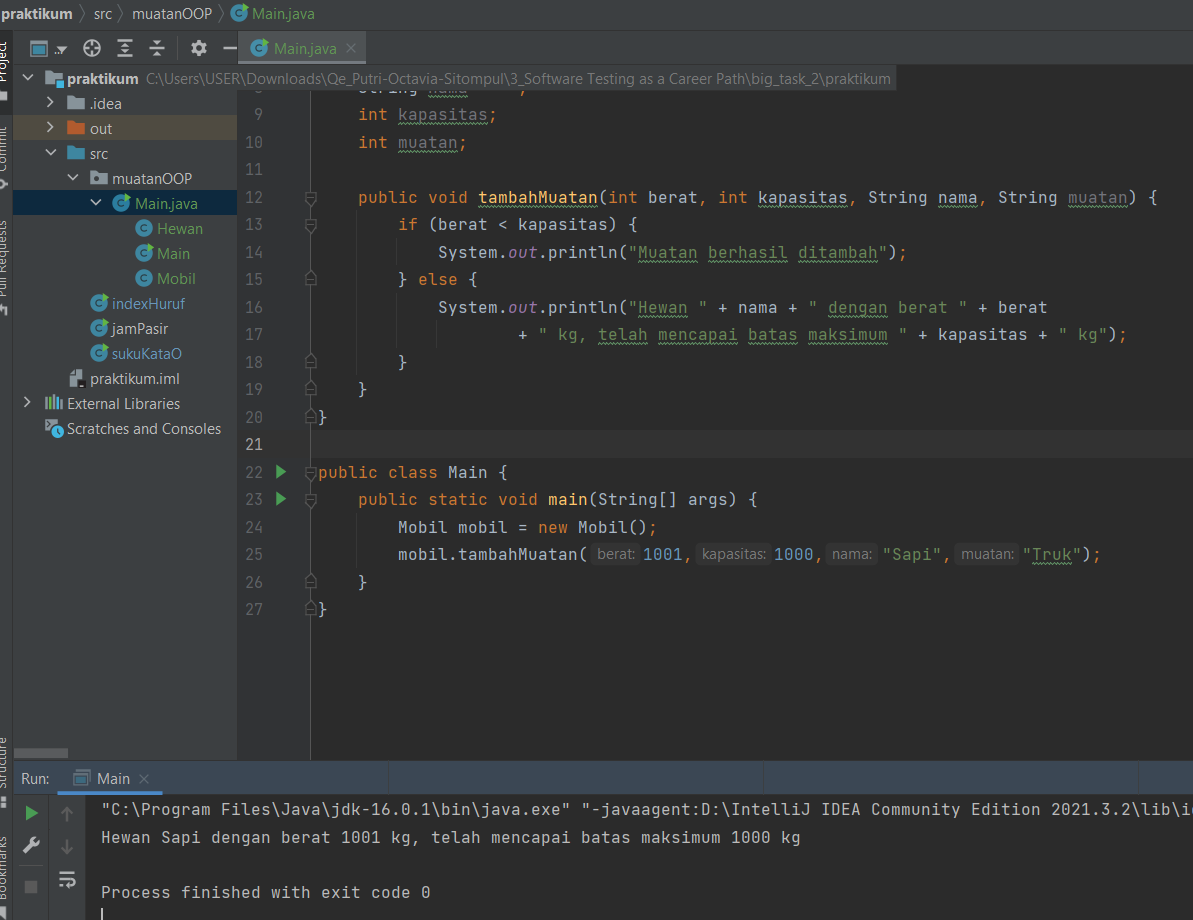
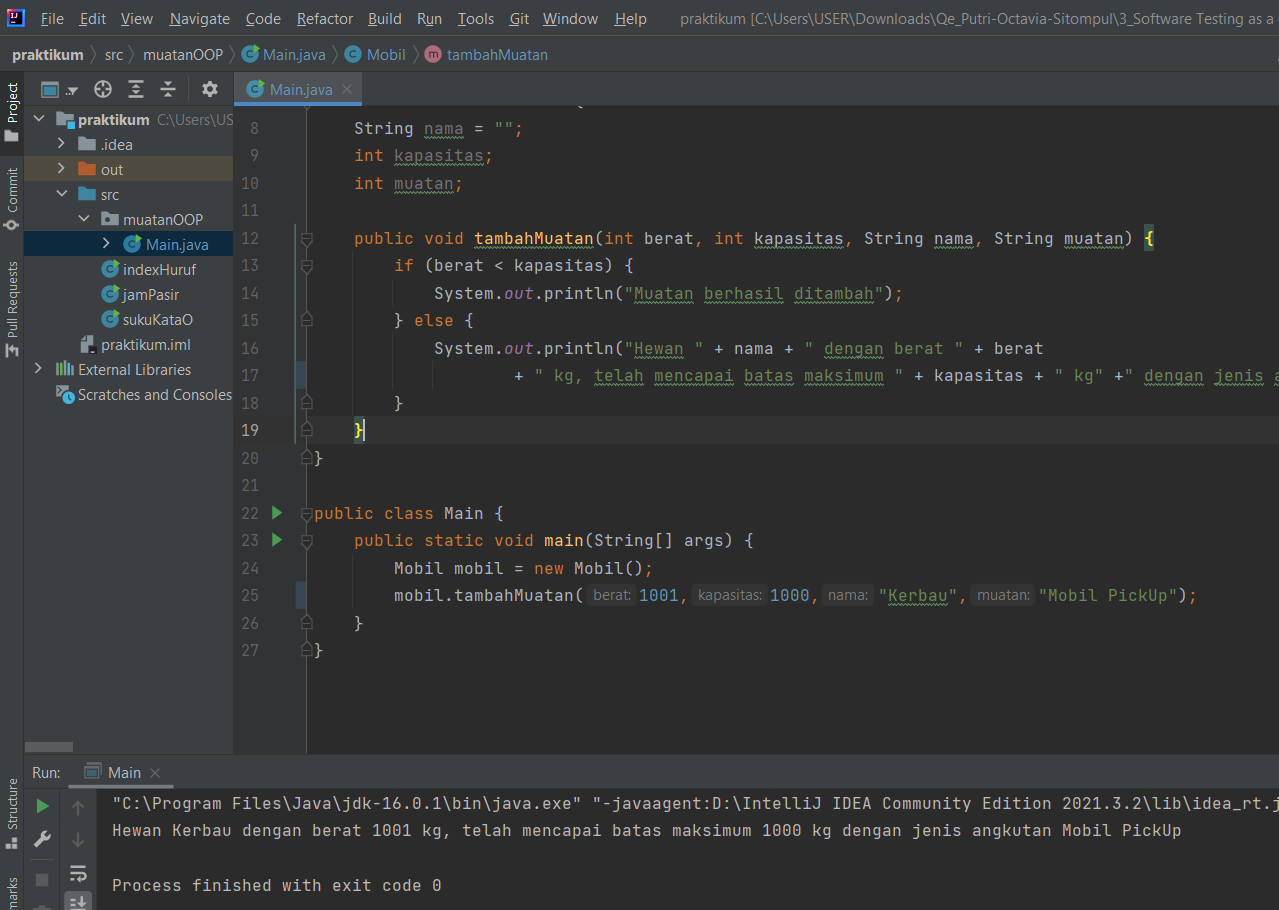
save mautan

diff --git a/big_task_2/praktikum/src/muatanOOP/Main.java b/big_task_2/praktikum/src/muatanOOP/Main.java
@@ -14,7 +14,7 @@ class Mobil extends Hewan {
             System.out.println("Muatan berhasil ditambah");
         } else {
             System.out.println("Hewan " + nama + " dengan berat " + berat
-                    + " kg, telah mencapai batas maksimum " + kapasitas + " kg");
+                    + " kg, telah mencapai batas maksimum " + kapasitas + " kg" +" dengan jenis angkutan " + muatan);
         }
     }
 }
@@ -22,6 +22,6 @@ class Mobil extends Hewan {
 public class Main {
     public static void main(String[] args) {
         Mobil mobil = new Mobil();
-        mobil.tambahMuatan(1001,1000,"Sapi","Truk");
+        mobil.tambahMuatan(1001,1000,"Kerbau","Mobil PickUp");
     }
 }
